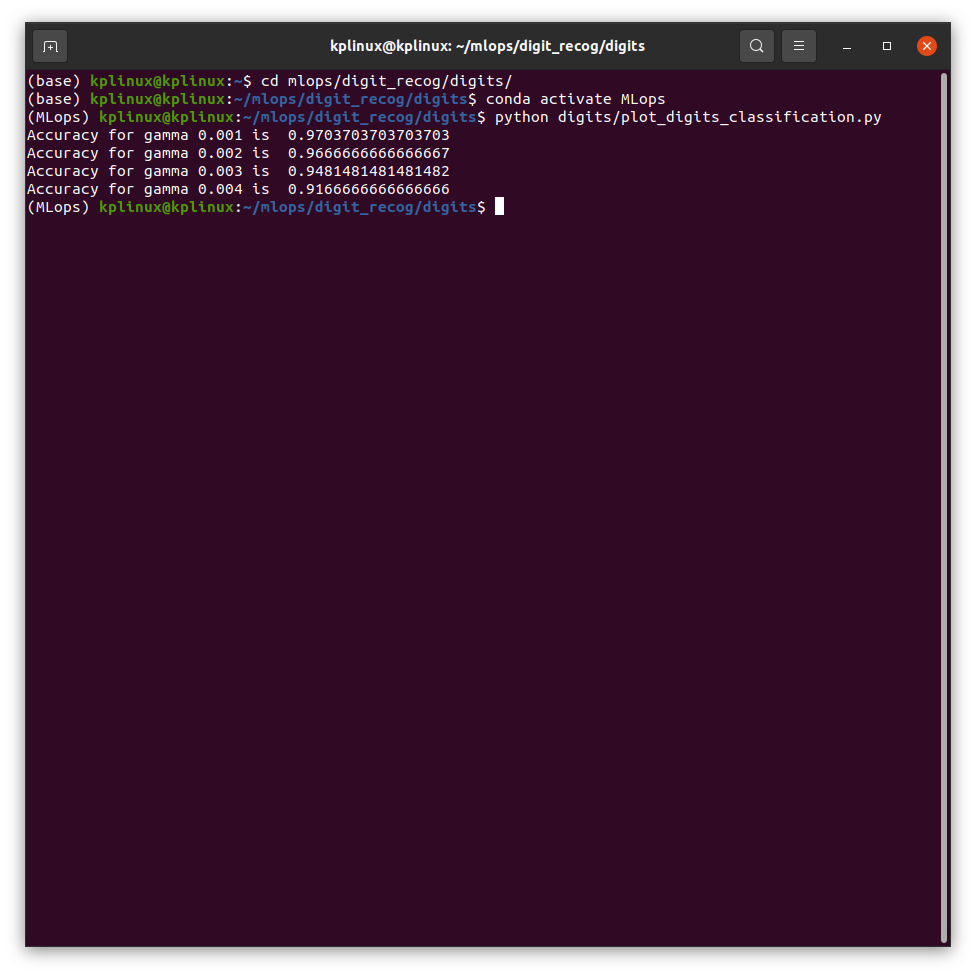
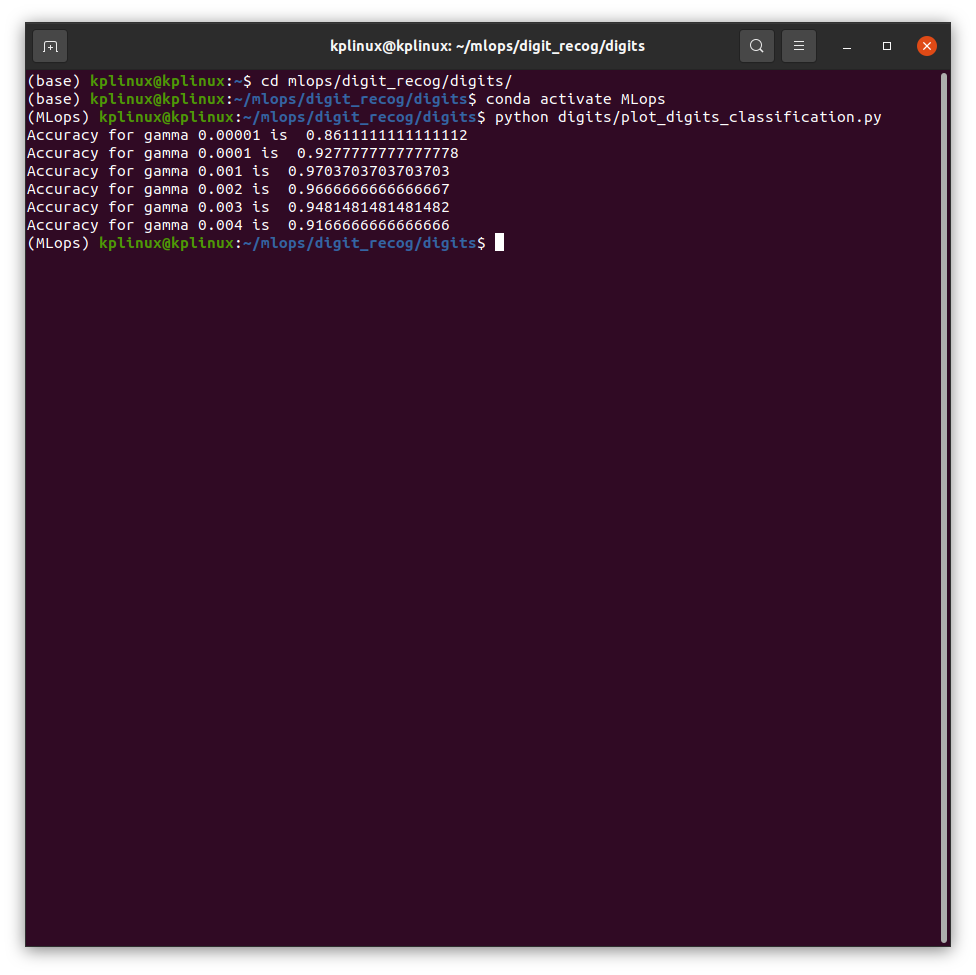
Checked for lower gamma values we well

Changed region(s): [[0.0307, 0.1231, 0.5225, 0.2769]]

diff --git a/digits/plot_digits_classification.py b/digits/plot_digits_classification.py
@@ -30,6 +30,16 @@ data = digits.images.reshape((n_samples, -1))
 X_train, X_test, y_train, y_test = train_test_split(
     data, digits.target, test_size=0.3, shuffle=False)
 
+clf = svm.SVC(gamma=0.00001)
+clf.fit(X_train, y_train)
+predicted = clf.predict(X_test)
+print("Accuracy for gamma 0.00001 is ", metrics.accuracy_score(predicted,y_test))
+
+clf = svm.SVC(gamma=0.0001)
+clf.fit(X_train, y_train)
+predicted = clf.predict(X_test)
+print("Accuracy for gamma 0.0001 is ", metrics.accuracy_score(predicted,y_test))
+
 clf = svm.SVC(gamma=0.001)
 clf.fit(X_train, y_train)
 predicted = clf.predict(X_test)
